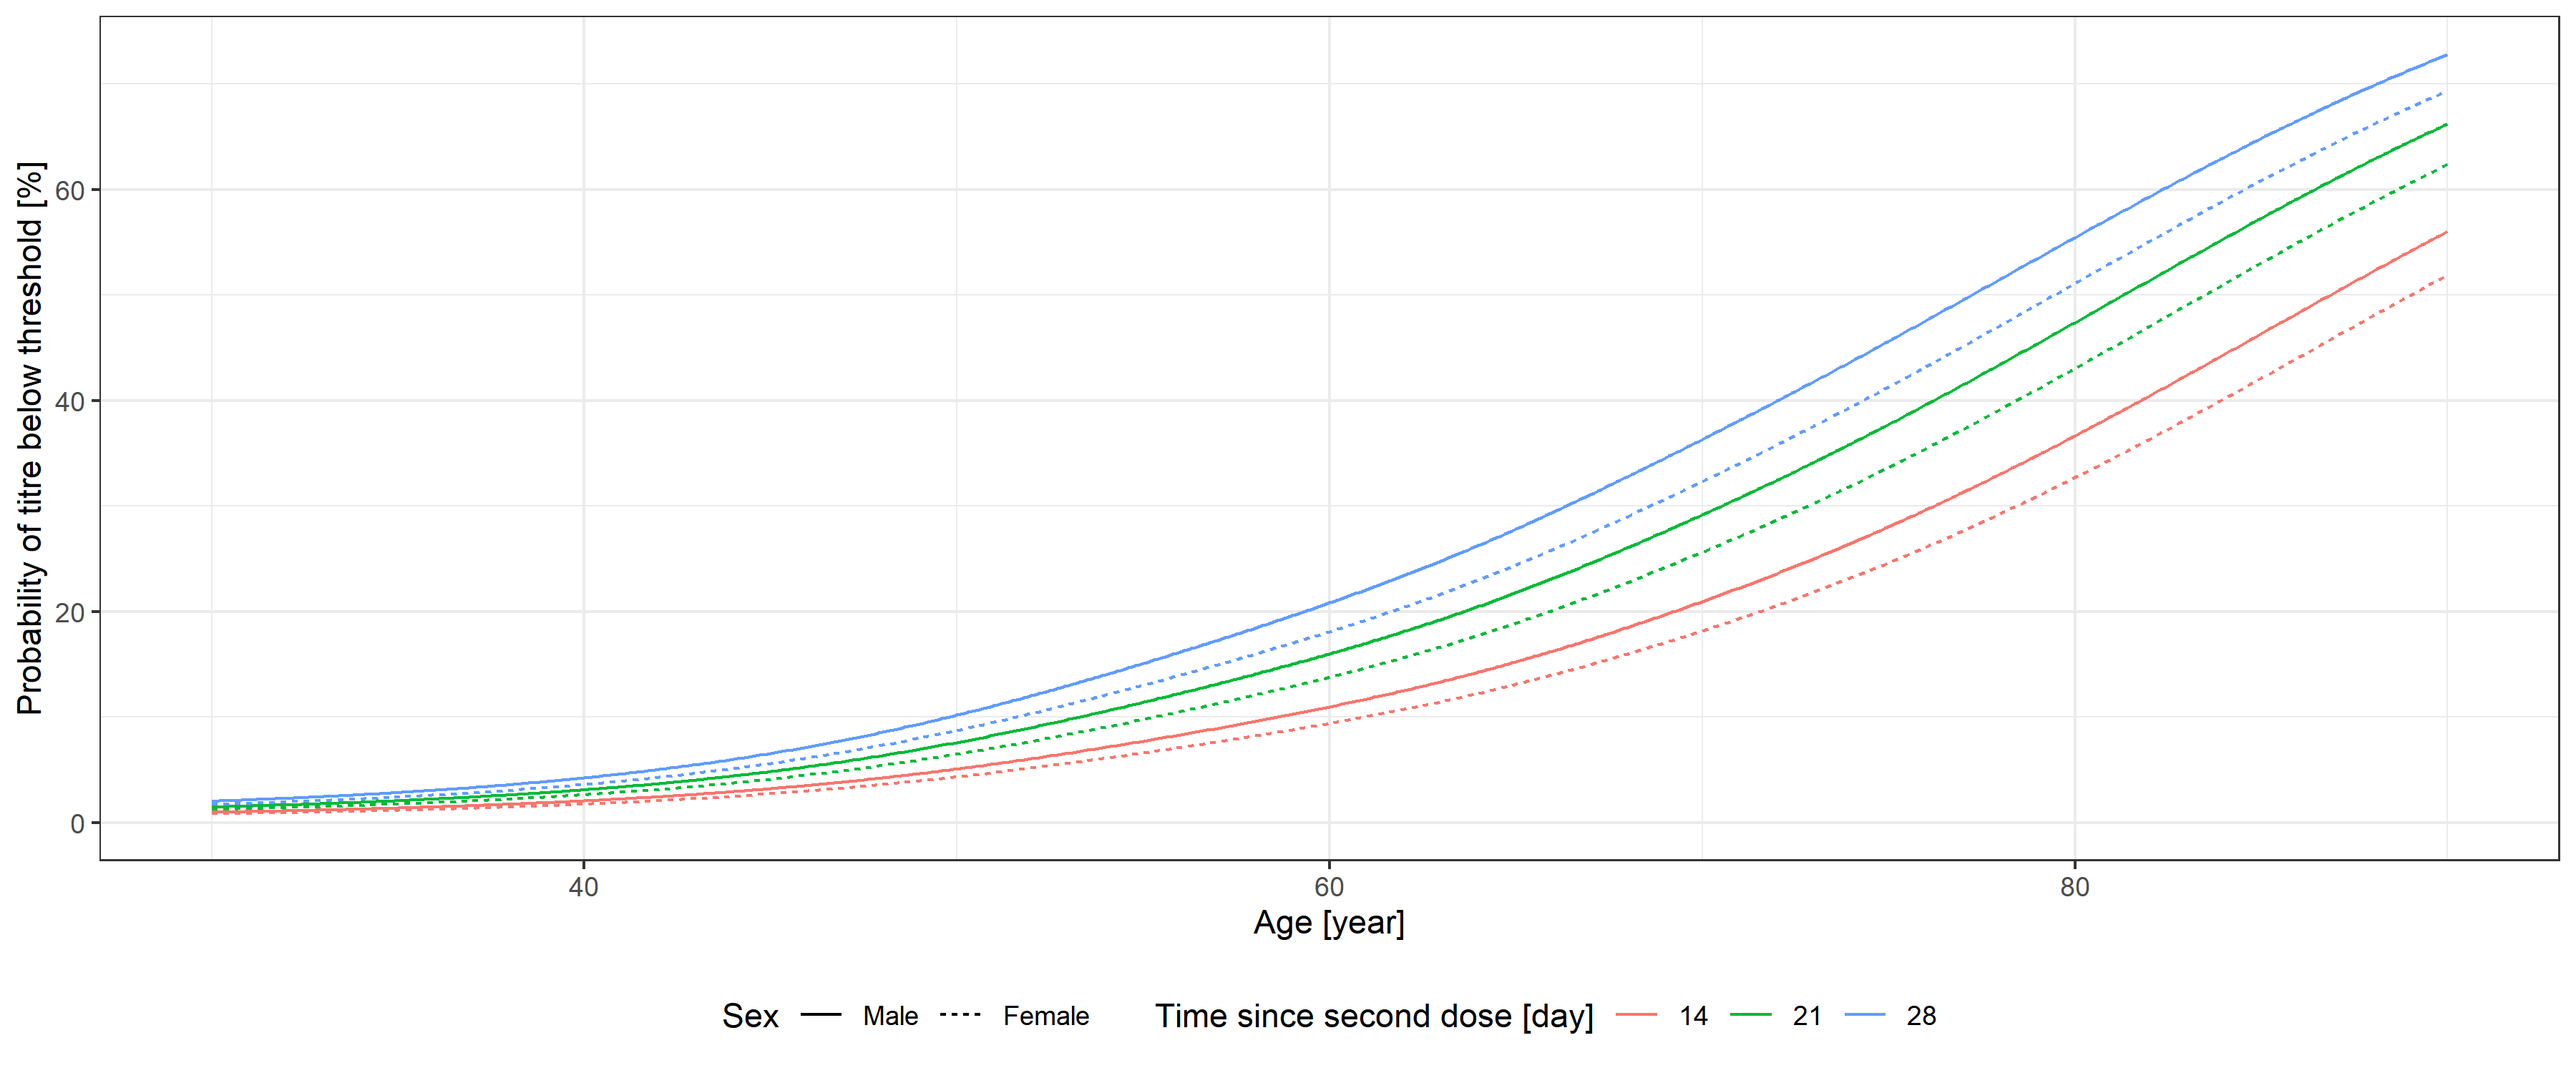
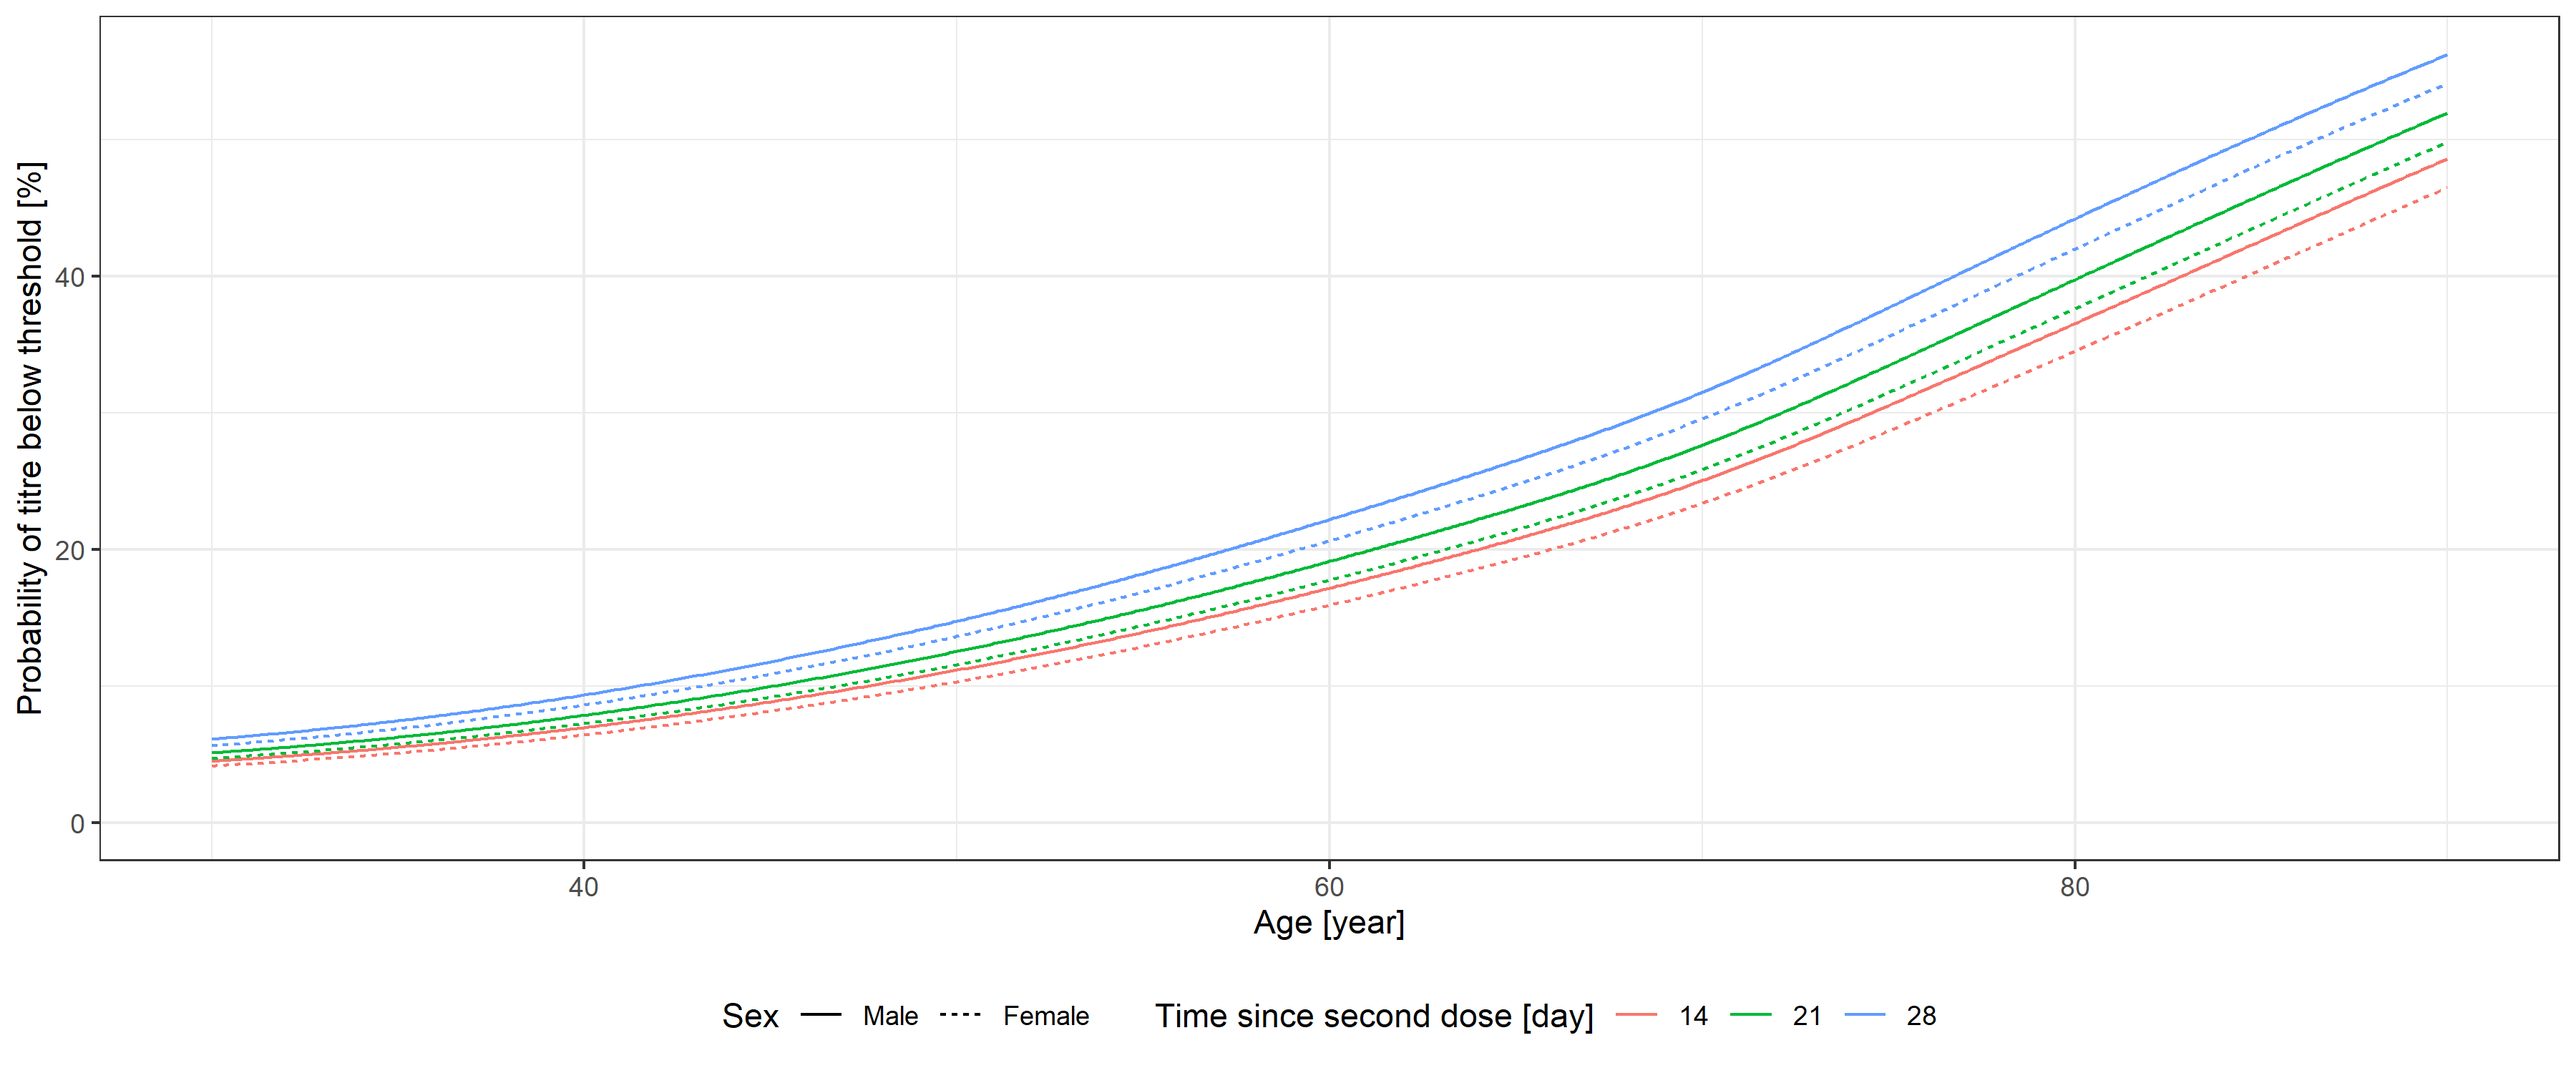
Update.

Changed region(s): [[0.0622, 0.092, 0.9333, 0.7667], [0.56, 0.6133, 0.5911, 0.644], [0.4978, 0.644, 0.5289, 0.6747]]

diff --git a/README.md b/README.md
@@ -28,34 +28,28 @@ library(brms)
 theme_set(theme_bw())
 ```
 
-## Preparing the simulated data, data dictionary
+## Availability of de-identfied individual patient level data
 
-We create a simulated dataset that has realistic statistical properties
-(i.e., resemble that of the actual data) to illustrate the later
-calculations:
+De-identfied individual patient level data are openly available to the
+public at the homepage of the Kelen Hospital:
+[Sinopharm](https://kelen.hu/wp-content/uploads/2021/07/sinopharmanonymousdata.xlsx)
+(450 subjects) and
+[Pfizer](https://kelen.hu/wp-content/uploads/2021/07/pfizeranonymousdata.xlsx)
+(45 subjects).
+
+To illustrate the methods, we will use to Sinopharm data. We first read
+the raw data:
 
 ``` r
-set.seed(123)
-
-RawData <- data.table(
-  Age = c(runif(100, 30, 90), TruncatedNormal::rtnorm(350, 70, 5, 30, 90))[sample(1:450, 450)],
-  Sex = c(rep("Male", 200), rep("Female", 250))[sample(1:450, 450)],
-  DaysAfterSecondDose = triangle::rtriangle(450, 14, 50, 14)[sample(1:450, 450)]
-)
-
-RawData$Titer <- ifelse(rbinom(450, 1, plogis(-5.5 + 0.05*RawData$Age + 0.04*RawData$DaysAfterSecondDose +
-                                                0.09*(RawData$Sex=="Male")))==1, 0,
-                        rlnorm(450, 3.2 - 0.01*RawData$Age - 0.02*RawData$DaysAfterSecondDose -
-                                 0.2*(RawData$Sex=="Male"), 1.1))
-
+RawData <- as.data.table(rio::import(
+  "https://kelen.hu/wp-content/uploads/2021/07/sinopharmanonymousdata.xlsx"))
 RawData2 <- RawData
 RawData2[Titer==0]$Titer <- 0.5
 ```
 
 (`RawData2` is only needed for visualization purposes.)
 
-This also serves as a data dictionary, that is, `RawData` has four
-variables:
+That is, `RawData` has four variables:
 
 -   `Age` is the age of the subject, measured in years (greater than or
     equal to 18 in the present study).
@@ -88,12 +82,9 @@ Distribution of titer according to age:
 
 ``` r
 ggplot() + geom_jitter(data = RawData2, aes(x = Age, y = Titer), height = 0.05) +
-  geom_smooth(data = RawData, aes(x = Age, y = Titer)) +
   scale_y_log10(breaks = c(0.5, 1, 10, 100), labels = c(0, 1, 10, 100), limits = c(0.4, NA)) +
   labs(x = "Age [year]", y = "Titre [Ci]")
 ```
-
-    ## `geom_smooth()` using method = 'loess' and formula 'y ~ x'
 
 ![](README_files/figure-gfm/unnamed-chunk-5-1.png)<!-- -->
 
@@ -101,12 +92,9 @@ Distribution of titer according to time since second dose:
 
 ``` r
 ggplot() + geom_jitter(data = RawData2, aes(x = DaysAfterSecondDose, y = Titer), height = 0.05) +
-  geom_smooth(data = RawData, aes(x = DaysAfterSecondDose, y = Titer)) +
   scale_y_log10(breaks = c(0.5, 1, 10, 100), labels = c(0, 1, 10, 100), limits = c(0.4, NA)) +
   labs(x = "Time since second dose [day]", y = "Titre [Ci]")
 ```
-
-    ## `geom_smooth()` using method = 'loess' and formula 'y ~ x'
 
 ![](README_files/figure-gfm/unnamed-chunk-6-1.png)<!-- -->
 
